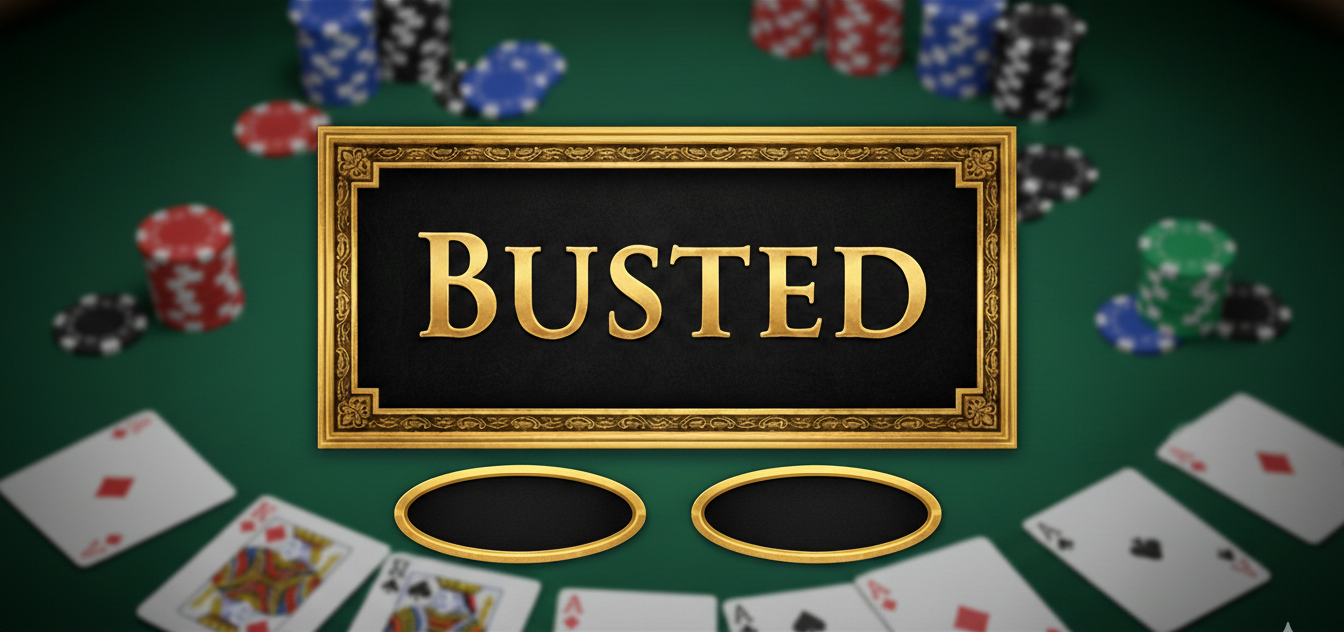
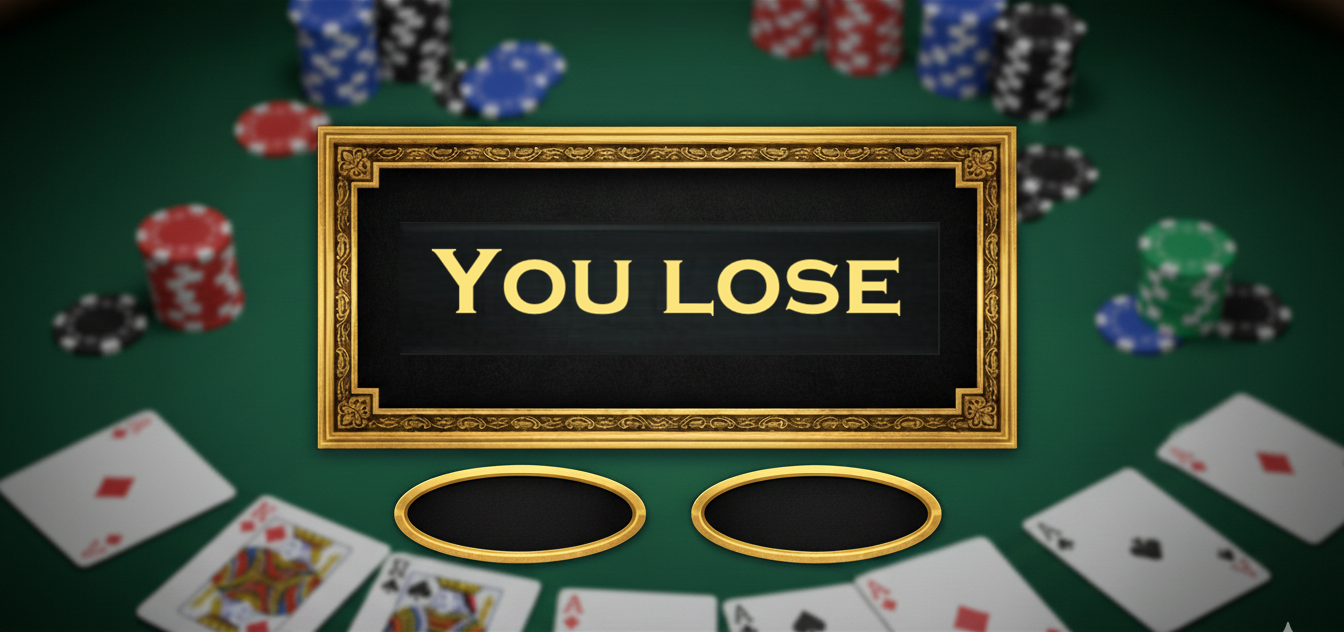
Sutvarkytos kelios problemos
Sutvarkiau kelius bugus su "End screen"

Changed region(s): [[0.3125, 0.3608, 0.6875, 0.5411]]

diff --git a/BlackJack/Assets/Scripts/EndScreen.cs b/BlackJack/Assets/Scripts/EndScreen.cs
@@ -17,6 +17,6 @@ public class EndScreen : MonoBehaviour
     {
         Debug.Log("Kraunamas žaidimas iš naujo...");
         // Įkeliame žaidimo stalą. Įsitikinkite, kad pavadinimas tiksliai toks!
-        SceneManager.LoadScene("Blackjack_table_scene");
+        SceneManager.LoadScene("Backjack_table_scene");
     }
 }
